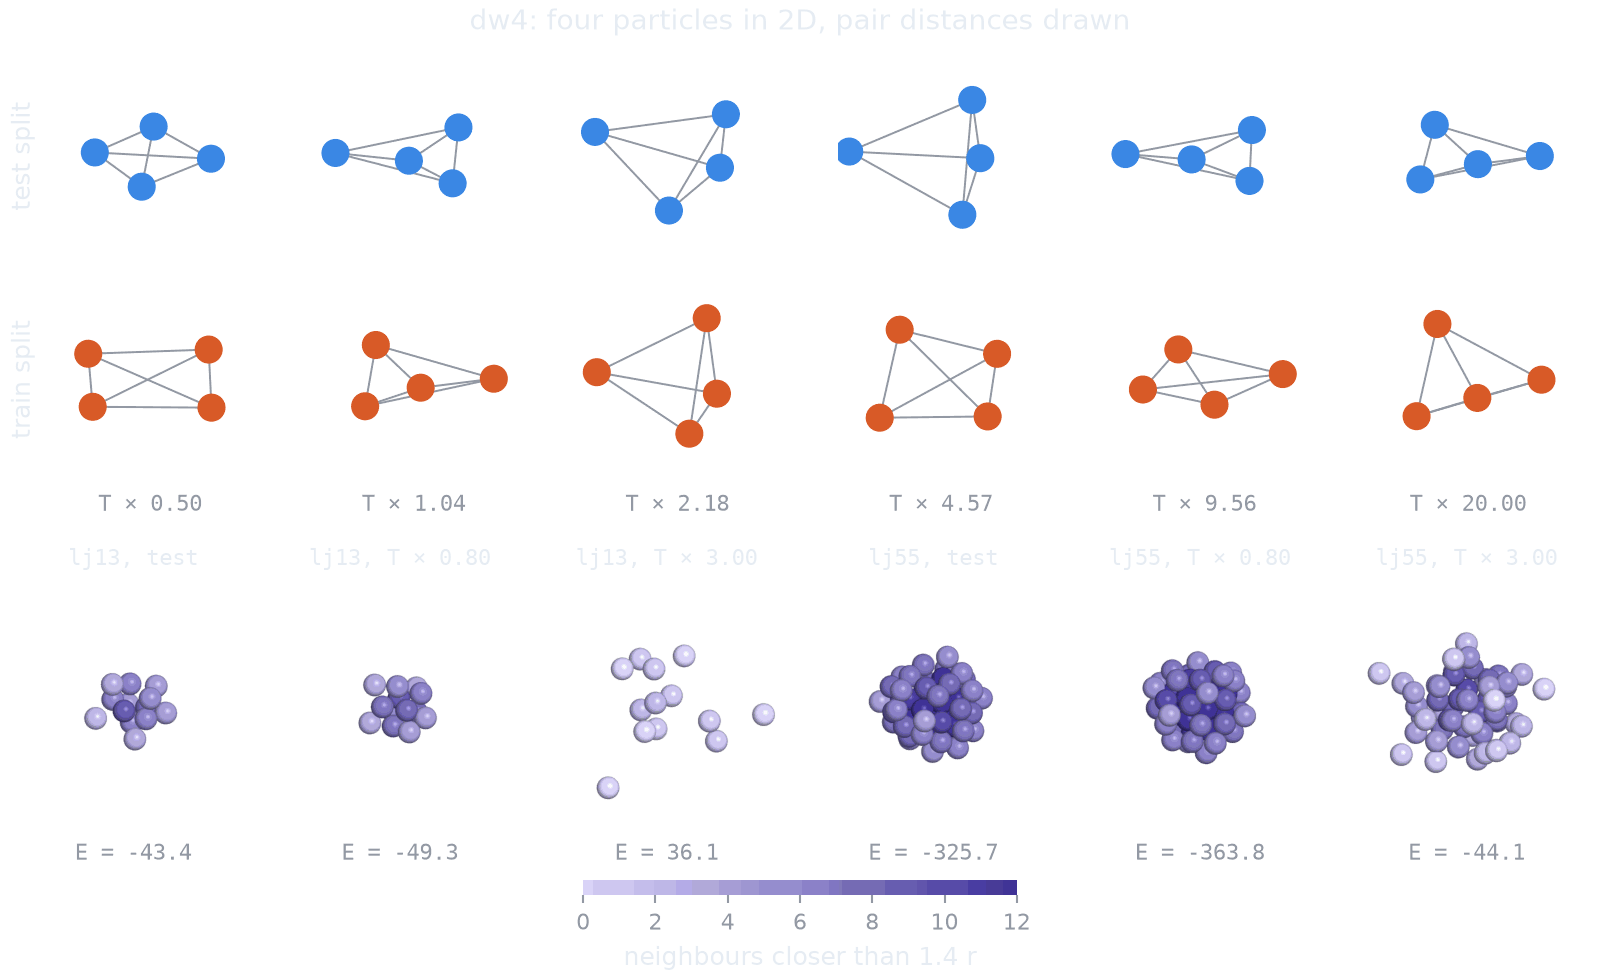
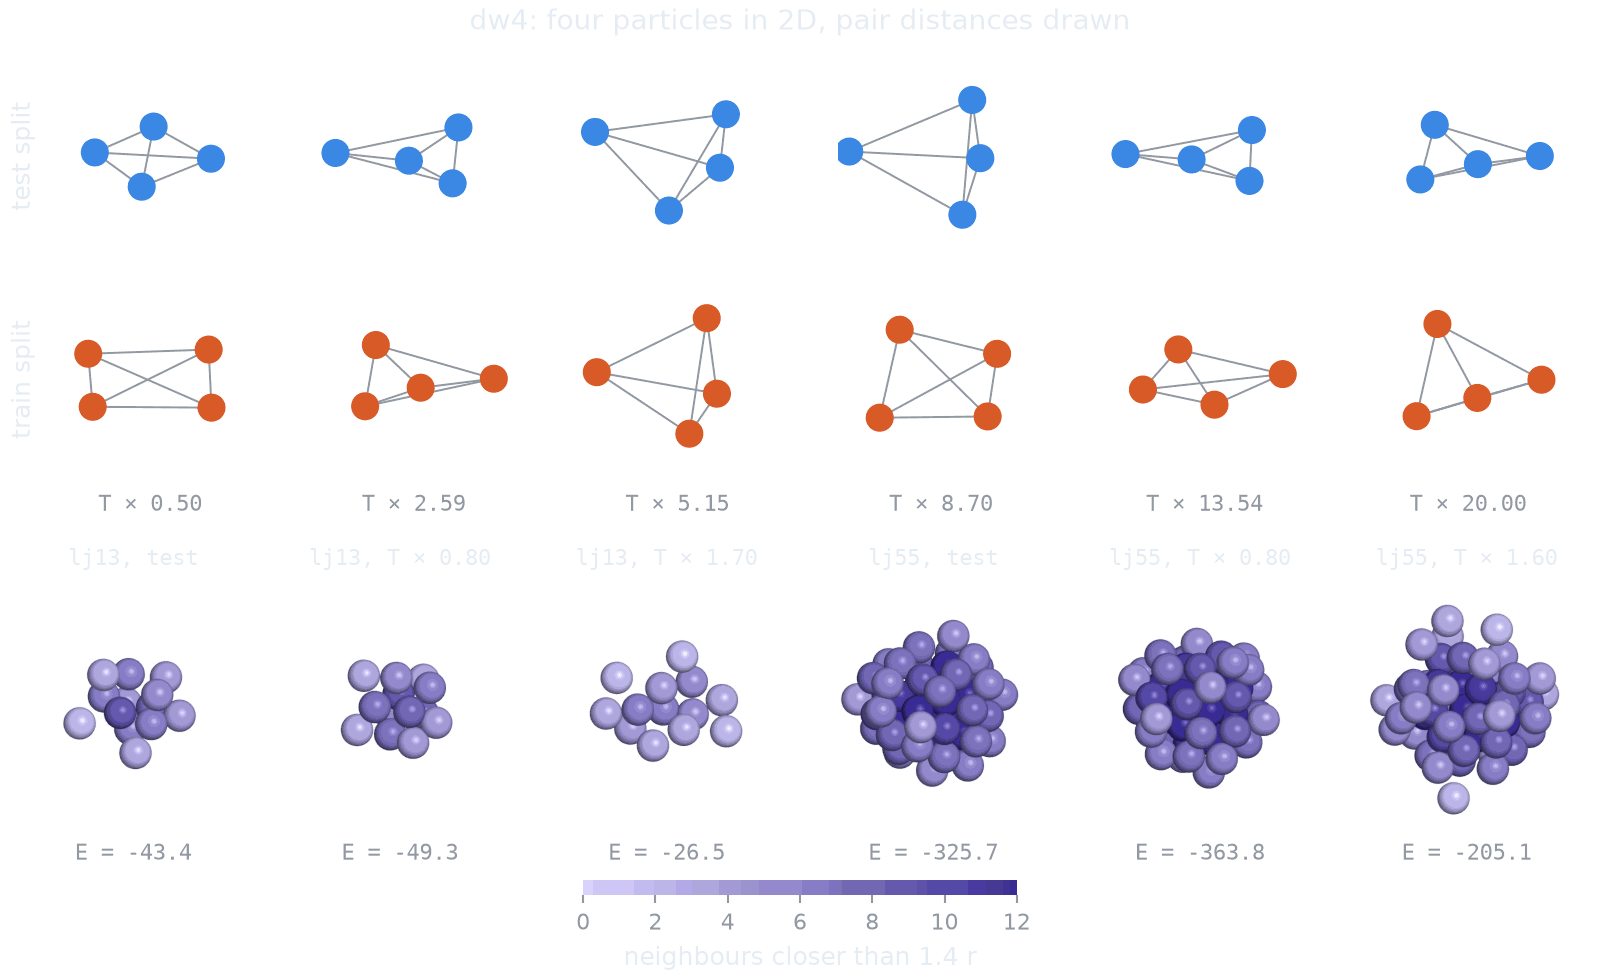
docs: Redraw the particle page for the split LJ train splits

diff --git a/docs/figures/particles.py b/docs/figures/particles.py
@@ -8,14 +8,13 @@ import matplotlib.pyplot as plt
 from matplotlib.colors import LinearSegmentedColormap, Normalize, to_rgb
 from samplingdb import build
 from samplingdb.targets.base import generator
-from samplingdb.targets.kernels import temperature_ladder
 sys.path.insert(0, str(pathlib.Path(__file__).resolve().parent))
 from common import blank, legend, pymol_render, save, save_gif, start_pymol
 
 # Parse the arguments
 parser = argparse.ArgumentParser()
 parser.add_argument('--n_samples', type=int, default=None)
-parser.add_argument('--chains', type=int, nargs='+', default=[0, 500, 999])
+parser.add_argument('--chains', type=int, nargs='+', default=[0, 99, 999])
 parser.add_argument('--trace_every', type=int, default=10)
 parser.add_argument('--frame_every', type=int, default=20)
 parser.add_argument('--device', type=str, default='cuda' if torch.cuda.is_available() else 'cpu')
@@ -164,7 +163,7 @@ for name in ['dw4', 'lj13', 'lj55']:
 for entry in systems.values():
     n_kept = len(entry['train']) // N_CHAINS
     entry['last'] = (n_kept - 1) * N_CHAINS
-    entry['factors'] = temperature_ladder(N_CHAINS, entry['target'].train_temperatures).numpy()
+    entry['factors'] = entry['target'].train_factors(N_CHAINS).cpu().numpy()
 
 # Pick the first DW-4 test configurations and the last train state of chains spread over the ladder
 dw4 = systems['dw4']

diff --git a/docs/targets/particles.md b/docs/targets/particles.md
@@ -25,8 +25,8 @@ every pair sits in one of the two wells of the pair potential; the hot train cha
 pairs on the barrier between them. Bottom: for each cluster, the test configuration at the median
 test energy, then the last state of the coldest and of the hottest train chain, at one scale, each
 particle shaded by its number of neighbours within `1.4 r`, the first minimum of the pair
-distribution. The cold train states are compact and below the test energy; the hot ones, which
-hold most of the split, have come apart, far above it.
+distribution. The cold train states are compact and below the test energy; the hot ones, nine
+chains in ten, are looser and above it.
 
 ## Conventions
 
@@ -66,33 +66,33 @@ and 100 352 for LJ-55), from `compute_metrics(train, ref_samples=test, return_hi
 bins half as wide as the panel's, each bin the share of all the samples it holds. The shaded bands
 lie outside the edges, where the panel drops mass without counting it in the total variation.
 `*_out_of_range` reports the dropped share of the scored samples, and the reference is cut the same
-way. Most of the train energies lie above the test ones, many past the panel's upper edge
-(`energy_out_of_range` 0.10 on DW-4, 0.53 on LJ-13 and 0.56 on LJ-55), and only the tail of the
-cold chains overlaps the test histogram, reaching just past its lowest energy. `energy_total_var`
-reads 0.67, 0.66 and 0.81 on what stays inside the edges. The pair distances spread wider too:
-the hot DW-4 chains fill the barrier between the two wells, and `dist_total_var` reads 0.33, 0.37
-and 0.14.
+way. On the clusters the train energies form two bumps: the hot nine chains in ten sit just above
+the test histogram, around -10 on LJ-13 and -225 on LJ-55, and the cold tenth overlaps it, reaching
+just past its lowest energy. On DW-4 the bulk lies above the test energies and the tail of its
+colder chains overlaps them. `energy_total_var` reads 0.67, 0.80 and 0.90 on DW-4, LJ-13 and LJ-55.
+The pair distances spread wider too: the hot DW-4 chains fill the barrier between the two wells,
+and `dist_total_var` reads 0.33, 0.26 and 0.09.
 
 ## Splits
 
 | Split | How it is built |
 | --- | --- |
 | test | This library's non-reversible parallel tempering, `gen/parallel_tempering/generate.py`, published as `pt/<name>_<spec_id>.npy` and downloaded on first use. See [Reference sets](../reference-sets.md#parallel-tempering-particles-and-the-binary-glass). |
-| train | 1000 MALA chains from a fixed lattice jittered by `N(0, 0.1^2)`, chain `i` at a temperature factor `low (high / low)^((i / 999)^0.5)`, from 0.8 to 3 on the clusters and from 0.5 to 20 on DW-4, so most chains run far hotter than the target and a thin run of colder ones reaches down to `low`. The step size of every chain adapts towards 57% acceptance over 1000 moves, after which each keeps one state every 10 moves. Returned frame by frame with the centre of mass removed, like the test split. The bulk of the train energies lies above the test ones, and only the tail of the colder chains overlaps them, reaching just past their lowest. |
+| train | 1000 MALA chains from a fixed lattice jittered by `N(0, 0.1^2)`, each at its own temperature factor. On the clusters, nine chains in ten run at 1.7 (LJ-13) or 1.6 (LJ-55) times the target temperature and one in ten from 0.8 to 1 times it. On DW-4, chain `i` runs at `0.5 * 40^((i / 999)^0.5)`, so most chains are far hotter than the target and a thin run of colder ones reaches down to 0.5. The step size of every chain adapts towards 57% acceptance over 1000 moves, after which each keeps one state every 10 moves. Returned frame by frame with the centre of mass removed, like the test split. The bulk of the train energies lies above the test ones, and only the colder chains overlap them, reaching just past their lowest. |
 
 <picture>
   <source media="(prefers-color-scheme: dark)" srcset="../figures/images/particles_train_chain_dark.gif">
   <img alt="Three LJ-55 train chains, the coldest, the middle and the hottest of the ladder, over their adaptation and kept moves, next to their energies and both splits' energies" src="../figures/images/particles_train_chain_light.gif">
 </picture>
 
-Three of the 1000 chains behind the LJ-55 train split, the coldest, the middle and the hottest of the
-ladder, from the jittered lattice to their last kept state, drawn every 20 moves with particles
+Three of the 1000 chains behind the LJ-55 train split, at 0.8, 1 and 1.6 times the target
+temperature, from the jittered lattice to their last kept state, drawn every 20 moves with particles
 shaded by neighbour count as above. The shaded part of each trace is the step-size adaptation,
 which the split does not keep; after it, every tenth state is a row of the split. Beside each trace
 are the energies of both whole splits. Each chain starts far above the plotted range and settles at
-a level set by its temperature. Over their kept states the cold chain averages -363.5, below the
-test split's 1st percentile, while the middle and the hot one, at 1.55 and 3 times the
-temperature, average -128.8 and -30.6, above every test energy: most of the split sits there.
+a level set by its temperature. Over their kept states the coldest chain averages -363.5, below
+the test split's 1st percentile, the chain at the target temperature -317.9, inside the test
+histogram, and the hot one -192.2, above every test energy, where nine chains in ten sit.
 
 The test split is this library's own parallel-tempering set, stationary under each target's own
 kernel (see [Reference sets](../reference-sets.md)).

diff --git a/docs/targets/README.md b/docs/targets/README.md
@@ -11,12 +11,14 @@ the test split covers and gets the rest wrong:
 
 The default train split, 100 000 samples at seed 0, is published with the reference sets and
 downloaded on first use, so every user reads the same array. Any other size or seed is generated
-locally and cached, by the recipe its target's `generate_train_samples` docstring states. On the targets with modes each chain draws its mode with skewed shares, starts
-from an exact draw of that mode and takes a short random walk. The posteriors run chains at a
-ladder of temperatures either side of the target's. The particle systems run most of their chains
-far hotter than the target and a thin run of colder ones, so the train energies sit mostly above
-the test ones and only their low tail crosses them. The glasses do the same with displacements
-inside 100 basins made with swap moves on the ternary, the coldest basins taking the most chains.
+locally and cached, by the recipe its target's `generate_train_samples` docstring states.
+
+On the targets with modes each chain draws its mode with skewed shares, starts from an exact draw
+of that mode and takes a short random walk. The posteriors run chains at a ladder of temperatures
+either side of the target's. The particle systems run most of their chains hotter than the target
+and a tenth or a thin run of colder ones, so the train energies sit mostly above the test ones and
+only the colder chains cross them. The glasses do the same with displacements inside 100 basins
+made with swap moves on the ternary, the coldest basins taking the most chains.
 The peptides place every residue in a backbone basin, alpha-L the most often, and run Langevin
 dynamics from there.
 
